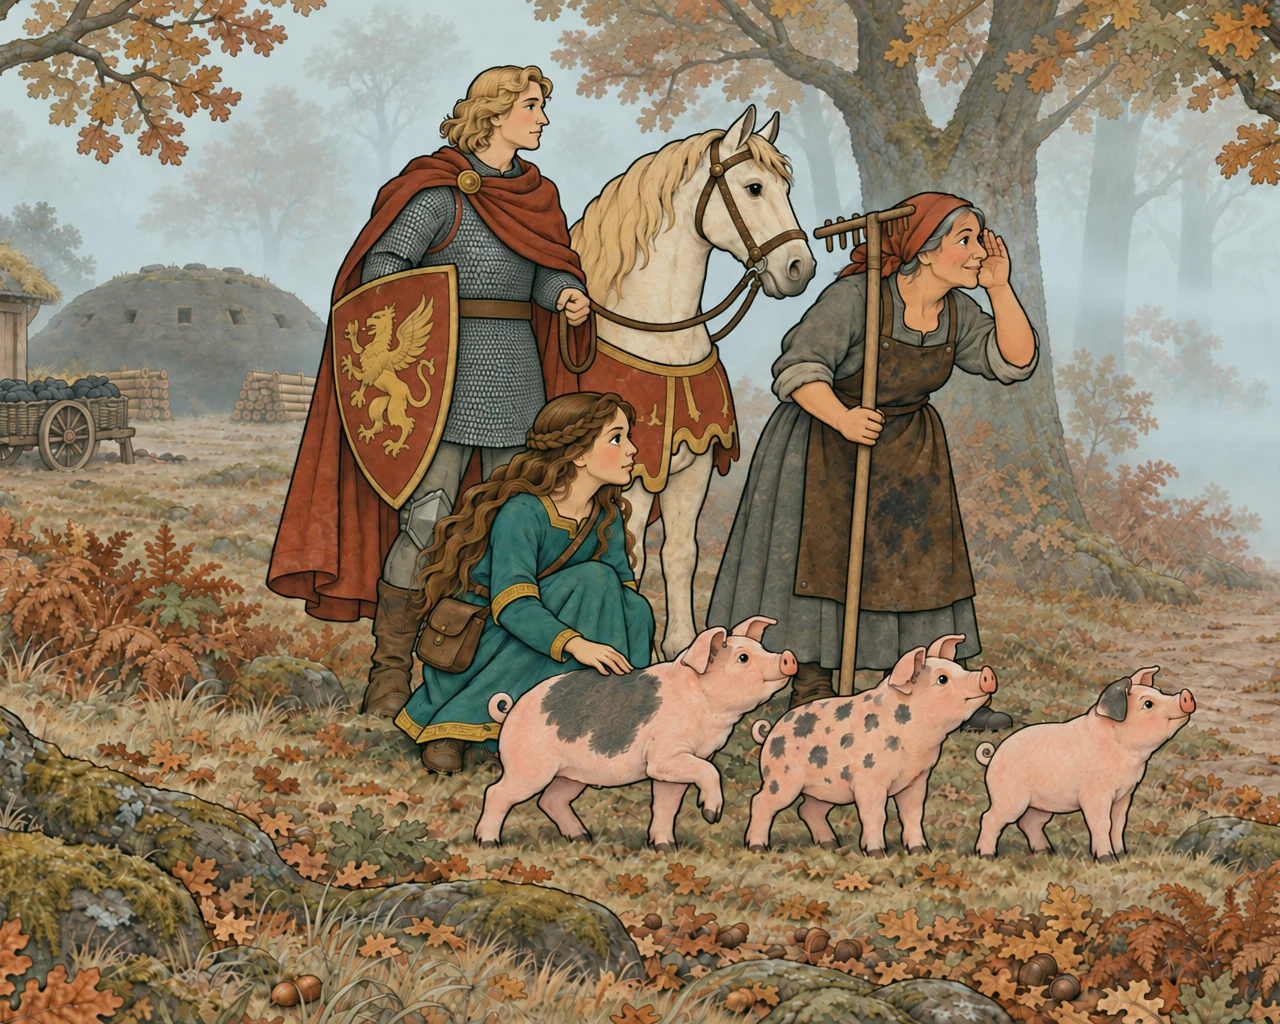
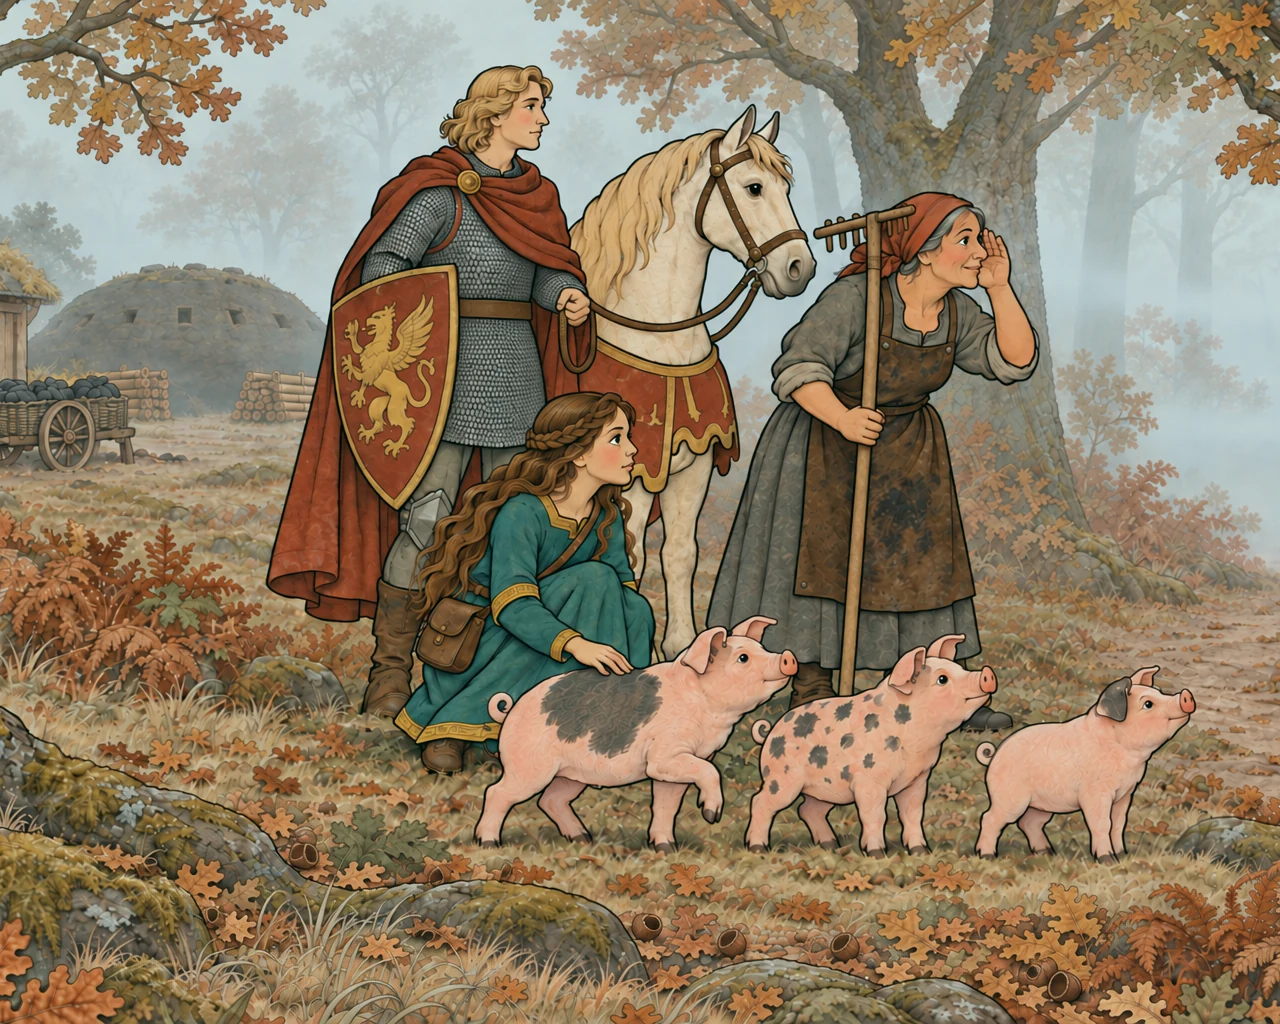
Forest p2 and p3 fixes: only empty acorn cups outside the Heartwood, Gustaw in front of the fence

diff --git a/prototypes/prompts/_build_forest.py b/prototypes/prompts/_build_forest.py
@@ -437,6 +437,10 @@ again("fo-p2", "fo-p2e", "fo-p2f", "everything except the acorns in the foregrou
 # fo-p7-gather-foreste = gather-forestb left, give-sackg right (same seam), Oliwia's box (372,300)-(680,740)
 # from gather-forestd, which had dropped Marcin's mallet. fo-p10-make-wayb = fo-p10-make-way with the gate's
 # gold star recoloured by hand to a brown carved groove (pixels around (566,841)).
+# fo-p3-follow-pigletsf = pigletsd with only the regions pigletse changed (blurred diff > 14, inside
+# (0,250)-(700,1250)), so Gustaw stands wholly in front of the fence. fo-p2g = p2e with the changed regions of
+# p2f inside y >= 760 (empty cups only); fo-p2h = p2g with the one cup still holding a nut, at (859,942),
+# replaced by a copy of the empty cup at (972,946).
 
 
 if __name__ == "__main__":
